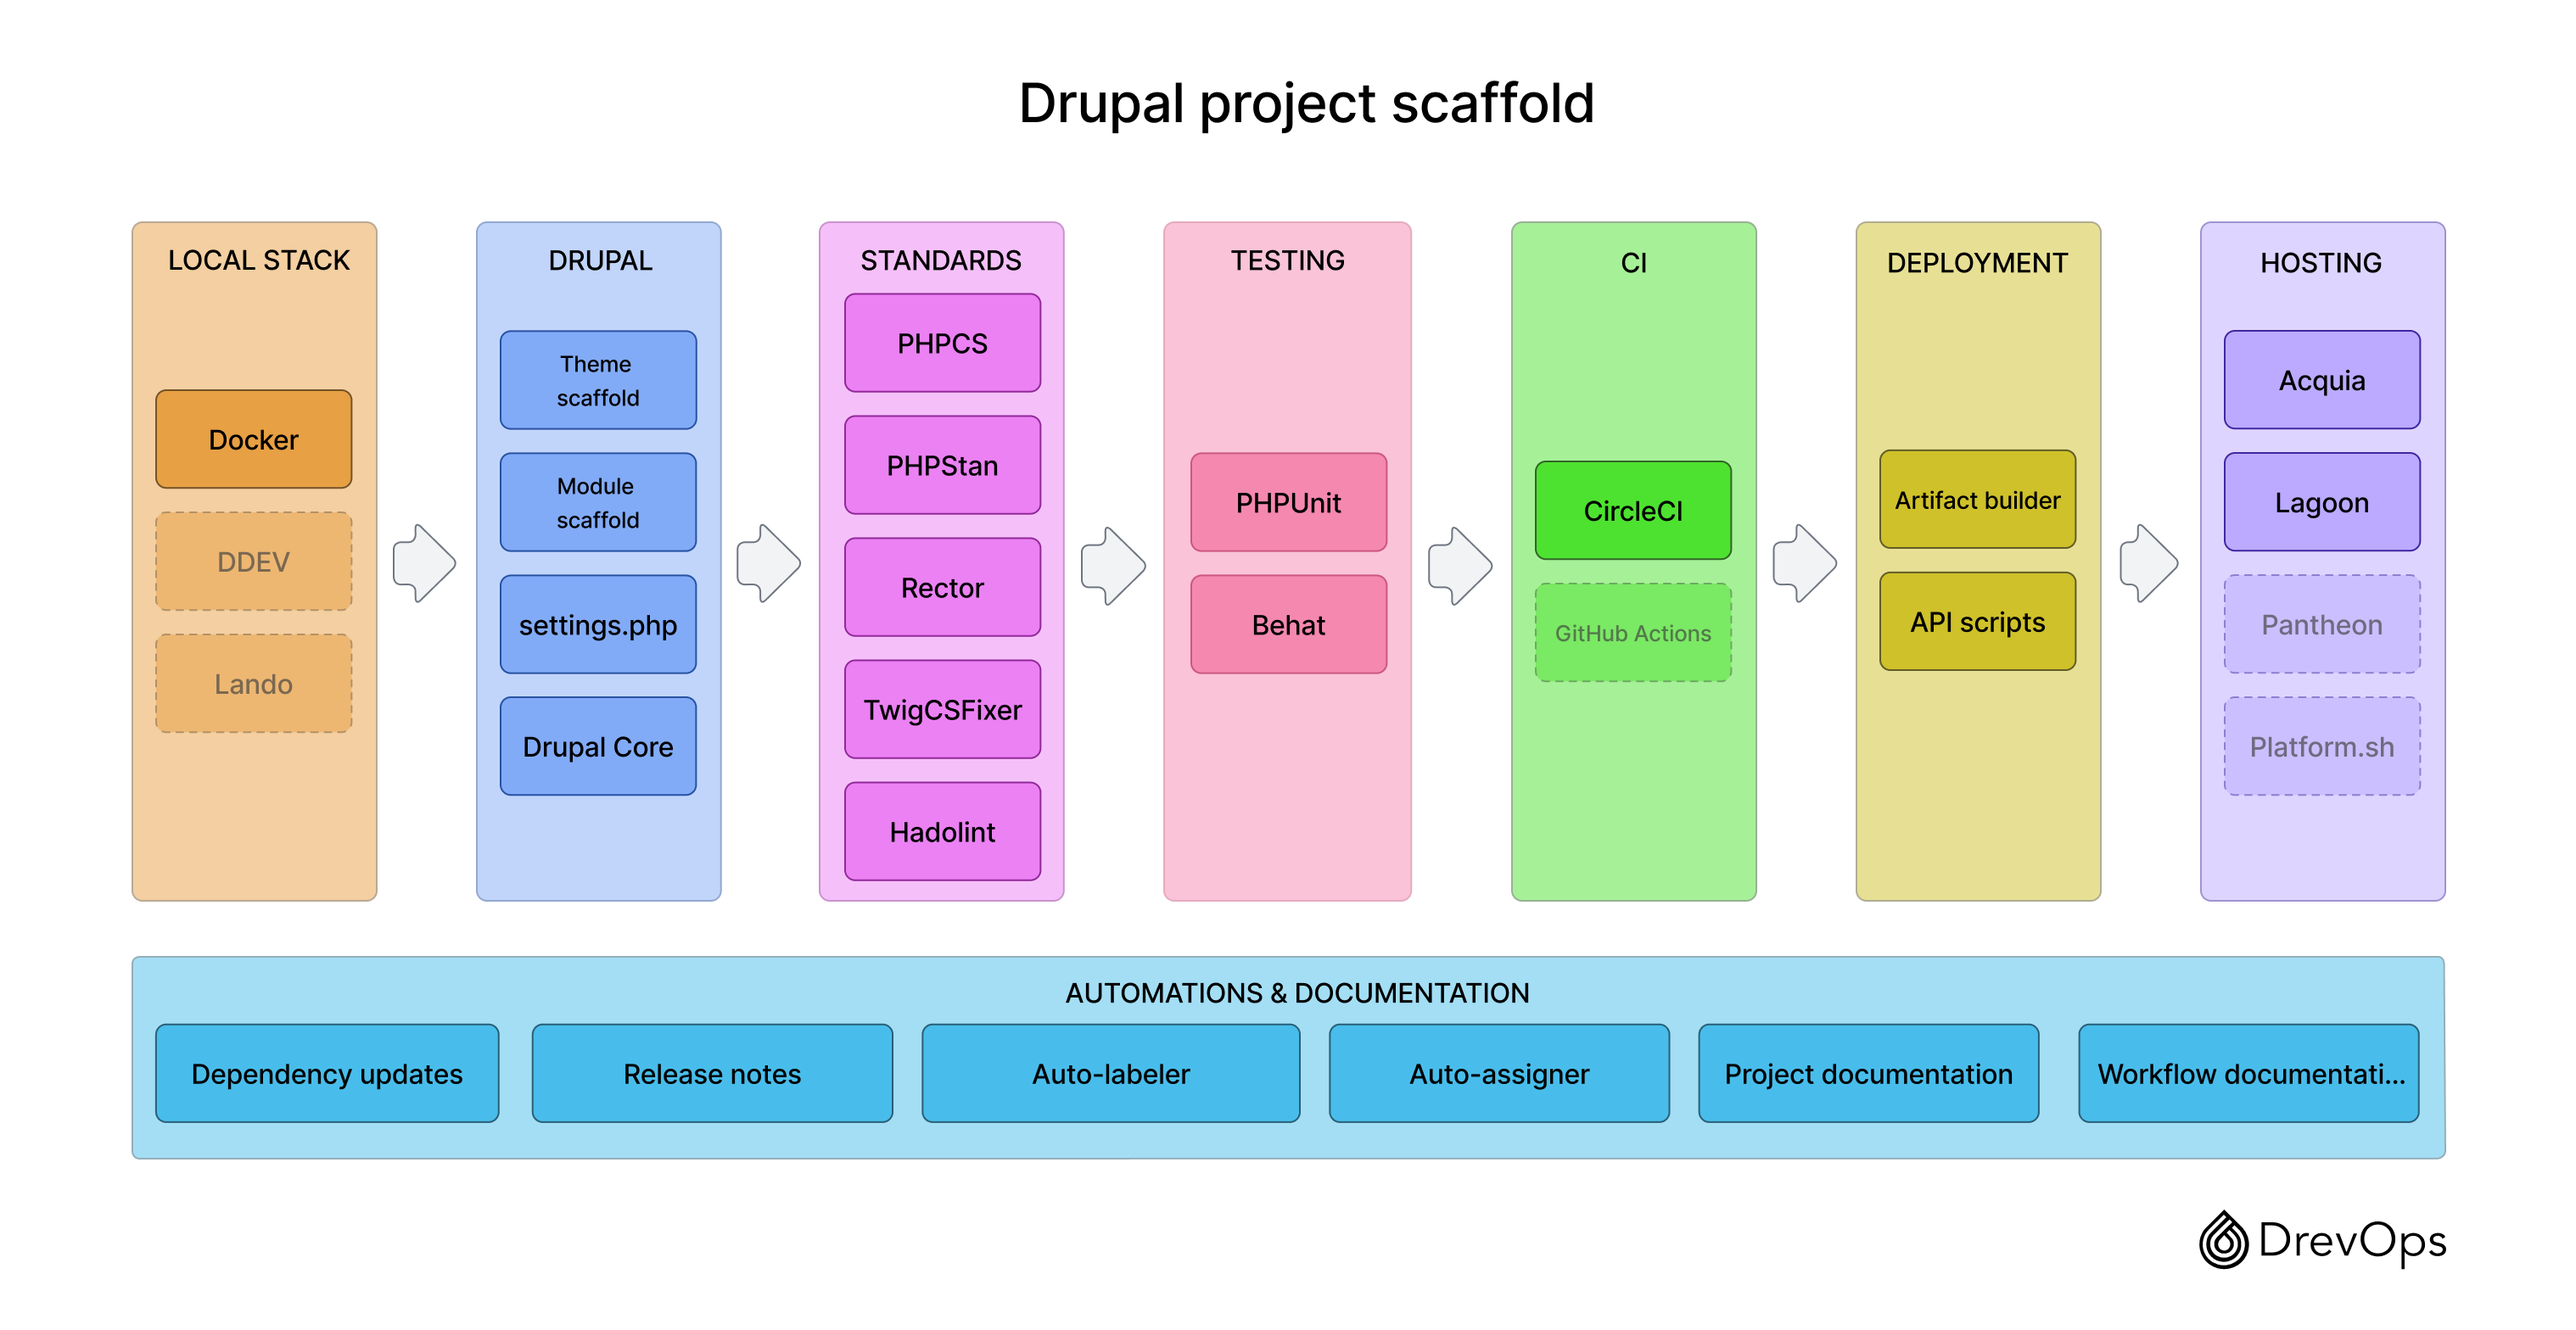
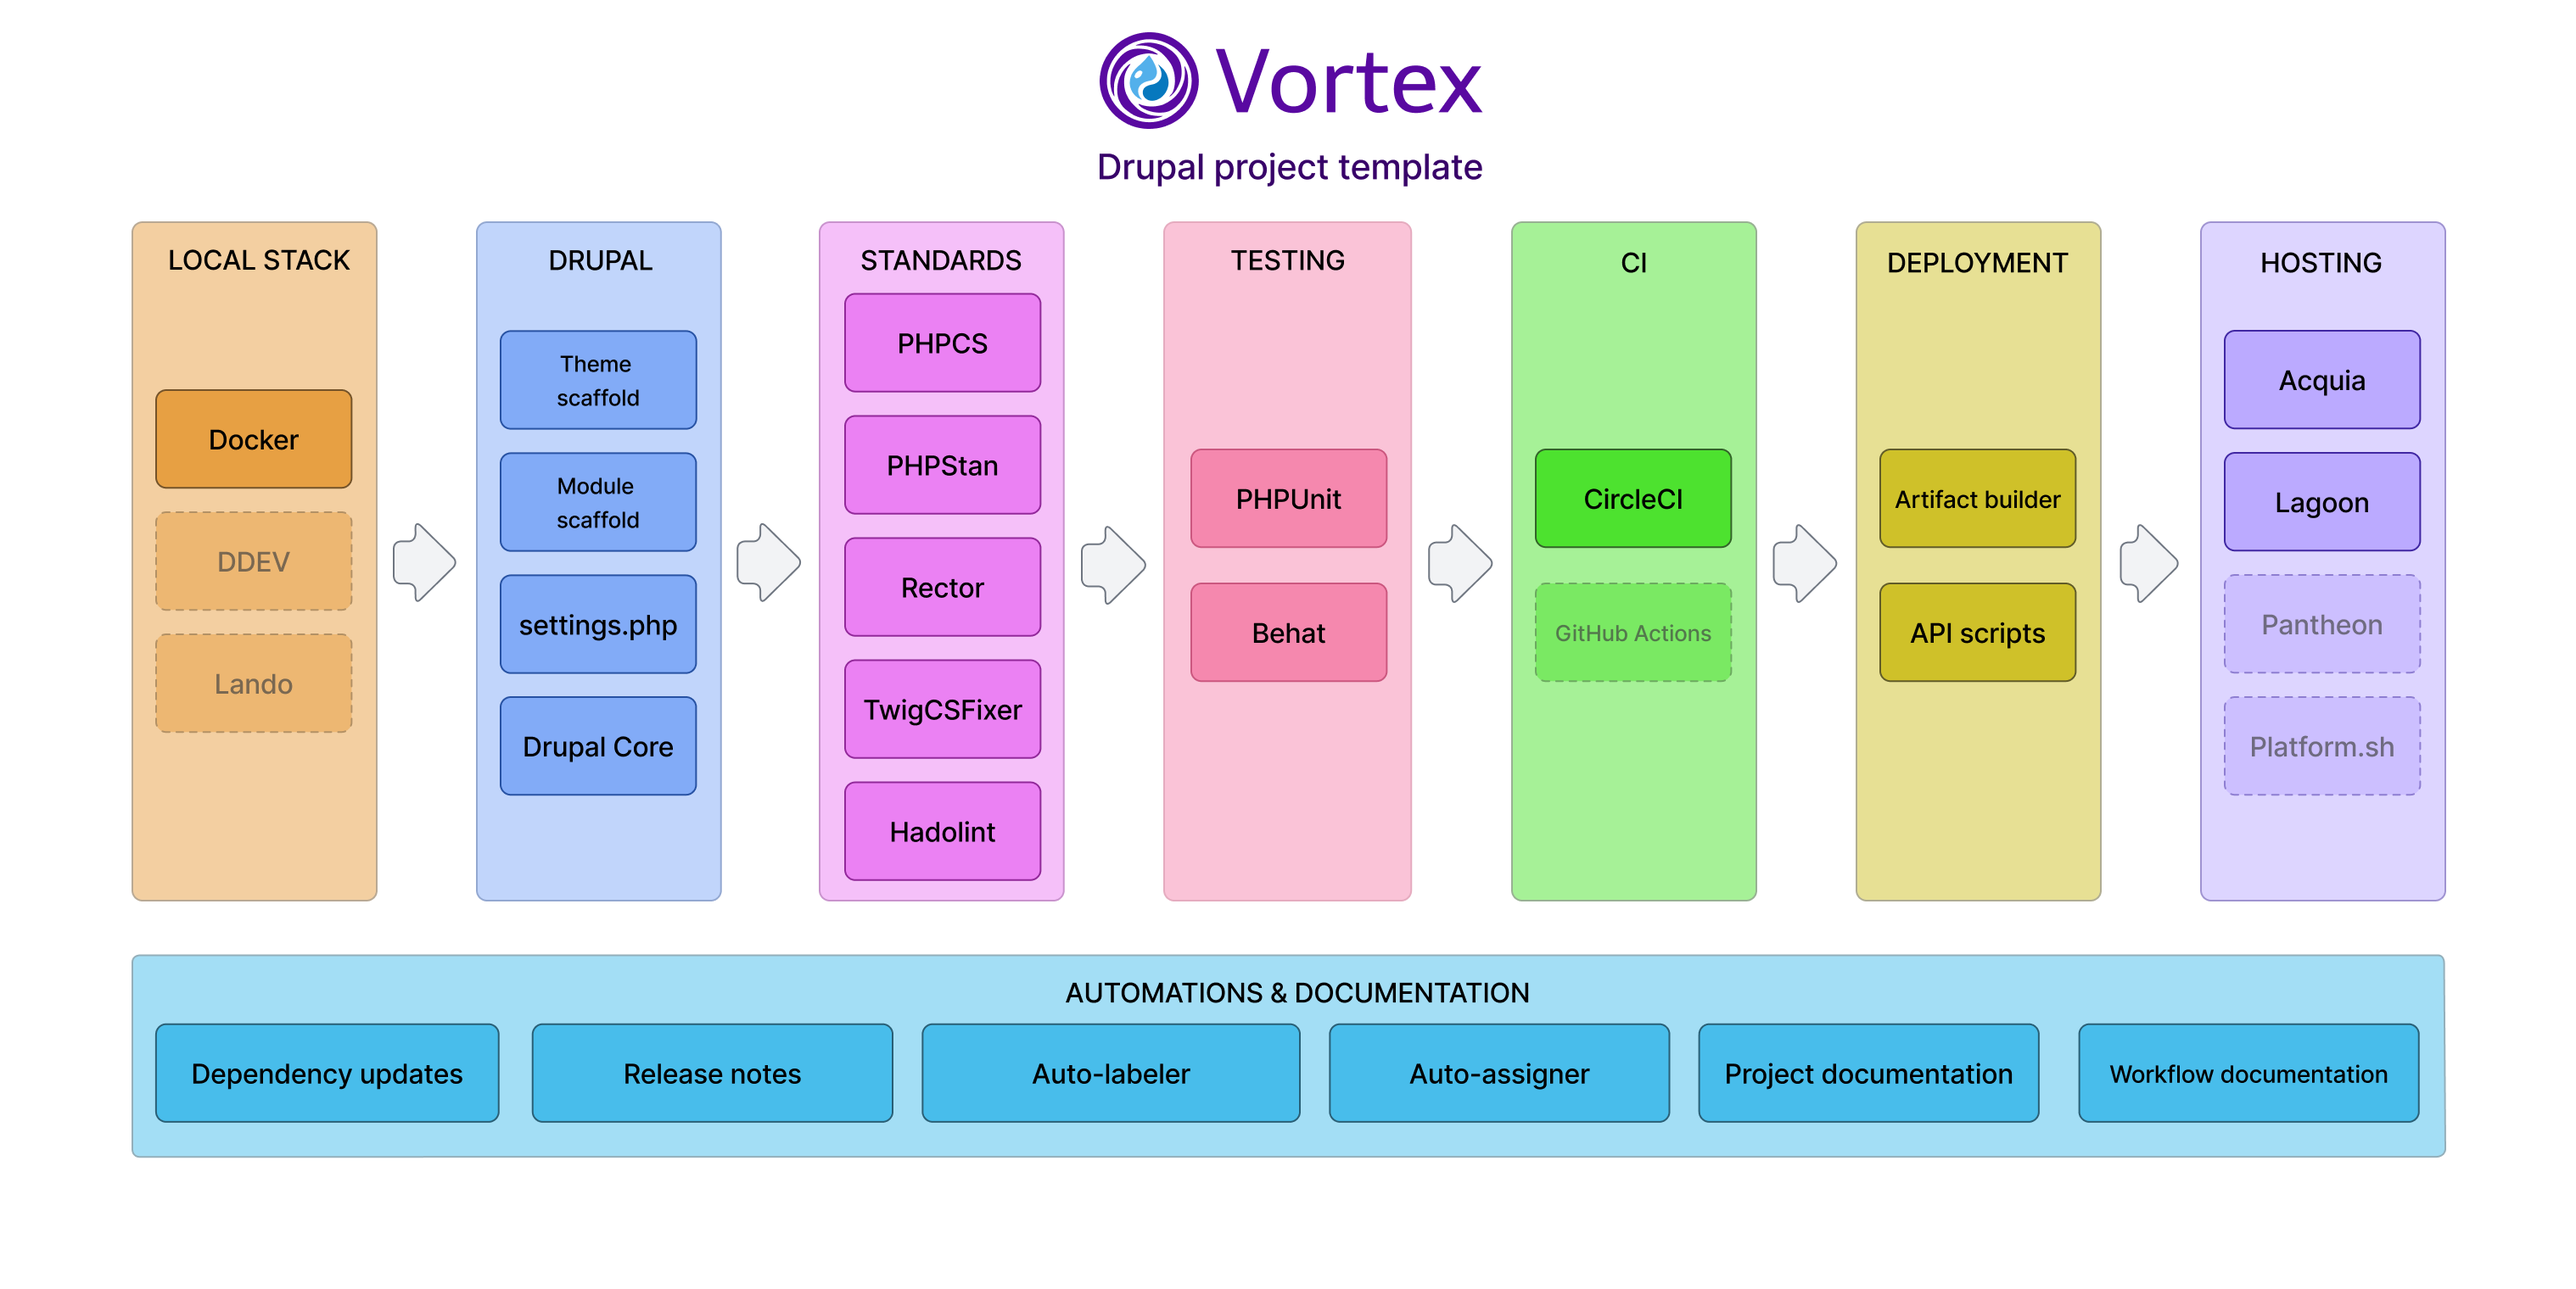
Updated diagrams.

diff --git a/.vortex/docs/docusaurus.config.js b/.vortex/docs/docusaurus.config.js
@@ -84,7 +84,7 @@ const config = {
   themeConfig:
   /** @type {import('@docusaurus/preset-classic').ThemeConfig} */
     ({
-      image: 'img/drevops_services_dark.png',
+      image: 'img/diagram-dark.png',
       navbar: {
         title: 'Vortex',
         logo: {
